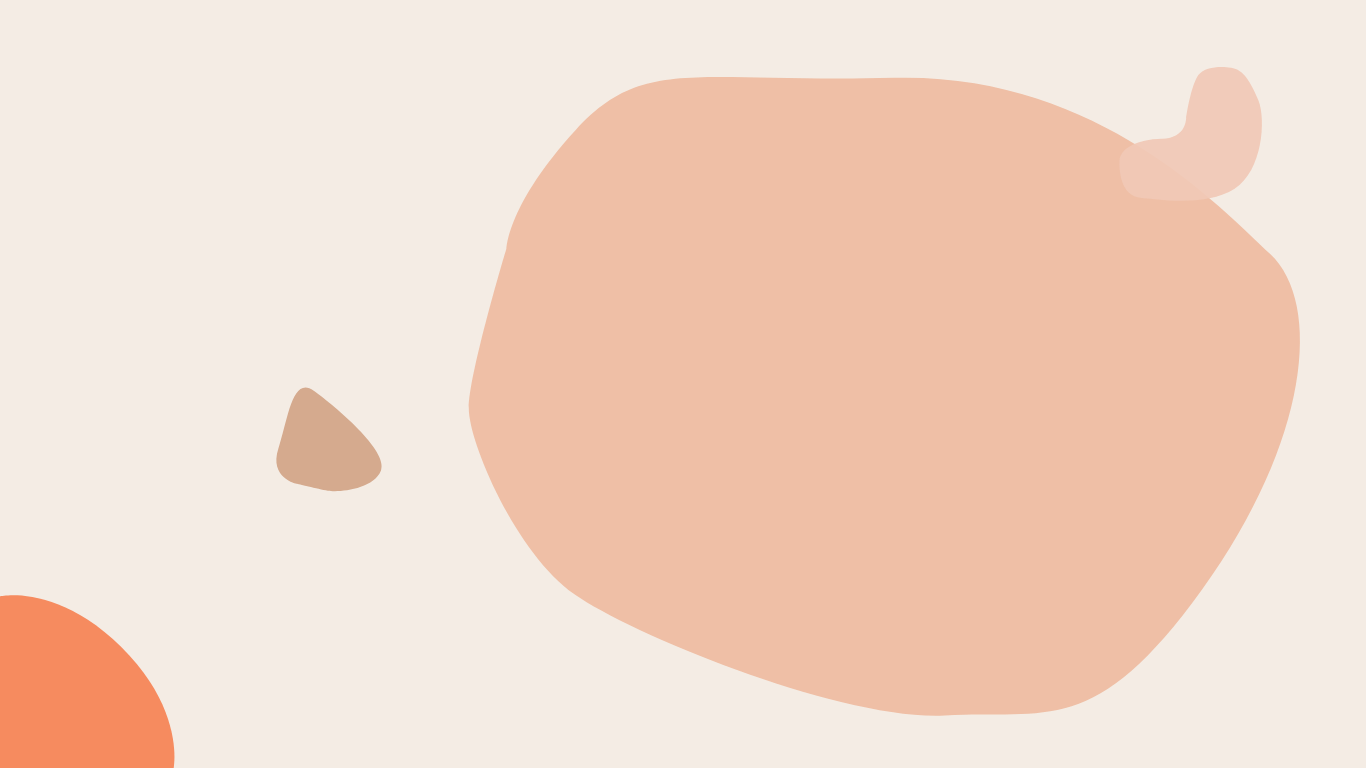
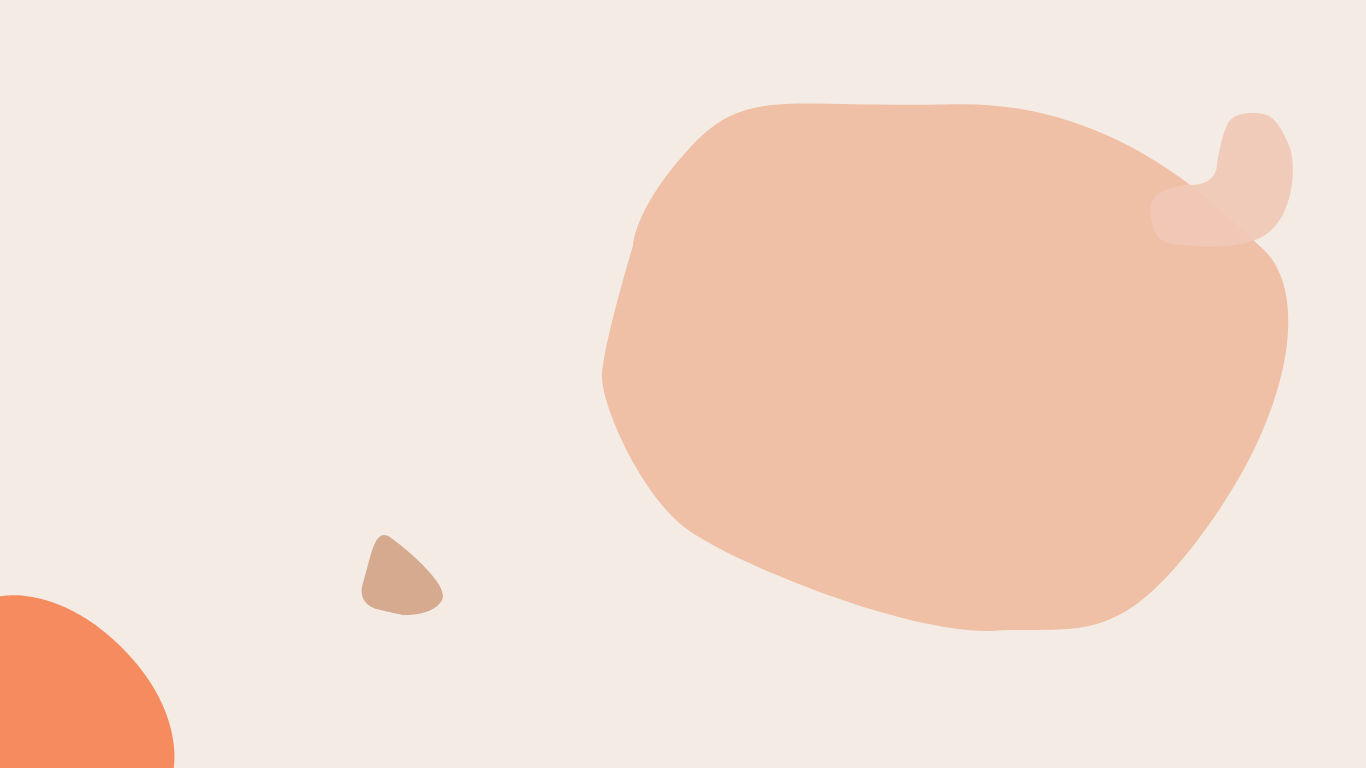
home changes

Changed region(s): [[0.3382, 0.0938, 0.9531, 0.9375], [0.1845, 0.5, 0.2767, 0.6562], [0.246, 0.6875, 0.3382, 0.8125]]

diff --git a/styles.css b/styles.css
@@ -26,10 +26,10 @@ section {
   font-family: 'Vidaloka', serif;
   color: #B35C49;
   position: absolute;
-  font-size: 172px;
+  font-size: 155px;
   font-weight: 300;
   margin-left: 150px;
-  margin-top: 120px;
+  margin-top: 90px;
 }
 
 
@@ -38,7 +38,7 @@ section {
   font-size: 84px;
   font-family: 'Vidaloka', serif;
   font-weight: 300;
-  margin-top: 315px;
+  margin-top: 265px;
   position: absolute;
   margin-left: 160px;
   line-height: 67%
@@ -52,9 +52,9 @@ section {
 }
 
 .container {
-  margin-left: 560px;
+  margin-left: 713px;
   position: absolute;
-  margin-top: 560px;
+  margin-top: 410px;
 }
 .options {
   font-size: 26px;

diff --git a/animations.css b/animations.css
@@ -119,7 +119,7 @@
   }
   100% {
     background-position: 50% 85%;
-    background-size: contain;
+    background-size: 100% 100%;
   }
 }
 @keyframes bg-pan-bottom {
@@ -128,6 +128,6 @@
   }
   100% {
     background-position: 50% 85%;
-    background-size: contain;
+    background-size: 100% 100%;
   }
 }
